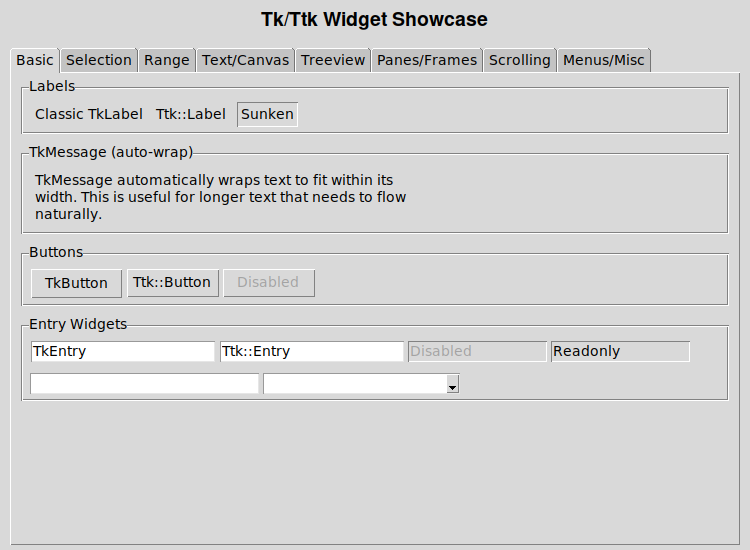
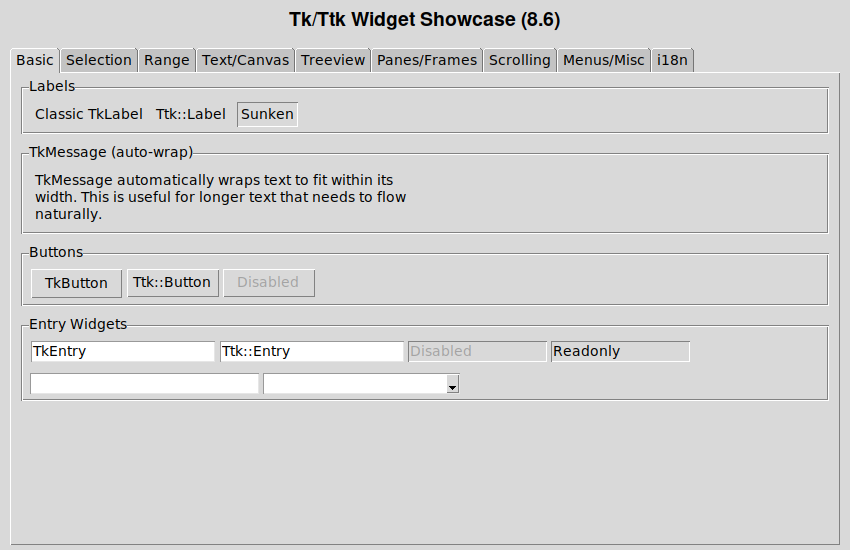
Add regression test for emoji/encoding

diff --git a/test/visual_regression/widget_showcase.rb b/test/visual_regression/widget_showcase.rb
@@ -55,12 +55,13 @@ module VisualRegression
         { tab_index: 6, name: '07_scrolling_top' },
         { tab_index: 6, name: '07_scrolling_bottom', setup: -> { scroll_to_bottom } },
         { tab_index: 7, name: '08_menus_misc' },
+        { tab_index: 8, name: '09_i18n' },
       ]
     end
 
     def build_ui
       @root = TkRoot.new { title "Tk Widget Showcase" }
-      @root.geometry("750x550+100+100")
+      @root.geometry("850x550+100+100")
 
       @root.raise
       @root.focus(true)
@@ -79,10 +80,7 @@ module VisualRegression
       # Add a menubar to the root window
       build_menubar
 
-      Ttk::Label.new(@root) {
-        text "Tk/Ttk Widget Showcase"
-        font 'Helvetica 14 bold'
-      }.pack(pady: 10)
+      Ttk::Label.new(@root, text: "Tk/Ttk Widget Showcase (#{@tk_version})", font: 'Helvetica 14 bold').pack(pady: 10)
 
       @notebook = Ttk::Notebook.new(@root)
       @notebook.pack(fill: 'both', expand: true, padx: 10, pady: 5)
@@ -95,6 +93,7 @@ module VisualRegression
       build_panes_frames_tab    # 5
       build_scrolling_tab       # 6
       build_menus_misc_tab      # 7
+      build_i18n_tab            # 8
     end
 
     def build_menubar
@@ -567,6 +566,75 @@ module VisualRegression
       grip_frame.pack(fill: 'both', expand: true, padx: 5, pady: 5)
       Ttk::Label.new(grip_frame, text: '(corner grip →)').pack(expand: true)
       Ttk::Sizegrip.new(grip_frame).pack(side: 'right', anchor: 'se')
+    end
+
+    ###########################################
+    # Tab 8: Internationalization / Encoding
+    ###########################################
+    def build_i18n_tab
+      tab = Ttk::Frame.new(@notebook)
+      @notebook.add(tab, text: 'i18n')
+
+      container = Ttk::Frame.new(tab)
+      container.pack(fill: 'both', expand: true, padx: 10, pady: 5)
+
+      # CJK Languages
+      lf = Ttk::Labelframe.new(container, text: 'CJK (Chinese/Japanese/Korean)')
+      lf.pack(side: 'left', fill: 'both', expand: true, padx: 5)
+
+      # Japanese
+      Ttk::Label.new(lf, text: '日本語:').pack(anchor: 'w', padx: 5)
+      Ttk::Label.new(lf, text: '  ひらがな カタカナ 漢字').pack(anchor: 'w', padx: 10)
+      Ttk::Label.new(lf, text: '  こんにちは世界').pack(anchor: 'w', padx: 10)
+
+      # Chinese
+      Ttk::Label.new(lf, text: '中文:').pack(anchor: 'w', padx: 5, pady: [5, 0])
+      Ttk::Label.new(lf, text: '  简体中文 繁體中文').pack(anchor: 'w', padx: 10)
+      Ttk::Label.new(lf, text: '  你好世界').pack(anchor: 'w', padx: 10)
+
+      # Korean
+      Ttk::Label.new(lf, text: '한국어:').pack(anchor: 'w', padx: 5, pady: [5, 0])
+      Ttk::Label.new(lf, text: '  안녕하세요 세계').pack(anchor: 'w', padx: 10)
+
+      # Other scripts and symbols
+      lf2 = Ttk::Labelframe.new(container, text: 'Other Scripts & Symbols')
+      lf2.pack(side: 'left', fill: 'both', expand: true, padx: 5)
+
+      # Cyrillic
+      Ttk::Label.new(lf2, text: 'Кириллица: Привет мир').pack(anchor: 'w', padx: 5)
+
+      # Greek
+      Ttk::Label.new(lf2, text: 'Ελληνικά: Γειά σου κόσμε').pack(anchor: 'w', padx: 5, pady: [5, 0])
+
+      # Arabic (RTL)
+      Ttk::Label.new(lf2, text: 'العربية: مرحبا بالعالم').pack(anchor: 'w', padx: 5, pady: [5, 0])
+
+      # Hebrew (RTL)
+      Ttk::Label.new(lf2, text: 'עברית: שלום עולם').pack(anchor: 'w', padx: 5, pady: [5, 0])
+
+      # Emoji
+      Ttk::Label.new(lf2, text: 'Emoji: 🎉 🚀 ❤ 🌍 ☀ 🎸').pack(anchor: 'w', padx: 5, pady: [10, 0])
+
+      # Math/symbols
+      Ttk::Label.new(lf2, text: 'Math: ∑ ∏ √ ∞ ≠ ≤ ≥ ± ×').pack(anchor: 'w', padx: 5, pady: [5, 0])
+
+      # Currency
+      Ttk::Label.new(lf2, text: 'Currency: $ € £ ¥ ₹ ₽ ฿').pack(anchor: 'w', padx: 5, pady: [5, 0])
+
+      # Entry widget with i18n text
+      lf3 = Ttk::Labelframe.new(tab, text: 'Entry with Unicode')
+      lf3.pack(fill: 'x', padx: 10, pady: 5)
+
+      entry_frame = Ttk::Frame.new(lf3)
+      entry_frame.pack(fill: 'x', padx: 5, pady: 5)
+
+      e1 = Ttk::Entry.new(entry_frame, width: 30)
+      e1.pack(side: 'left', padx: 2)
+      e1.insert(0, '日本語テスト 🎌')
+
+      e2 = Ttk::Entry.new(entry_frame, width: 30)
+      e2.pack(side: 'left', padx: 2)
+      e2.insert(0, 'Ελληνικά → العربية')
     end
 
     ###########################################
